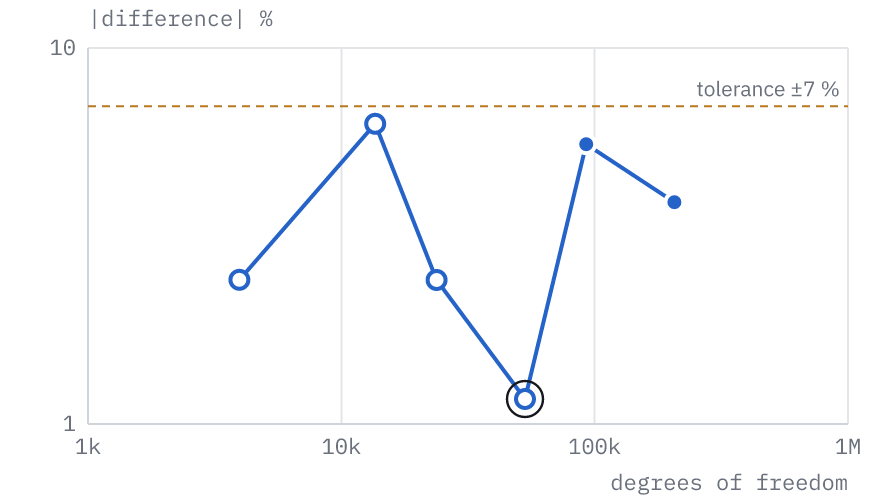
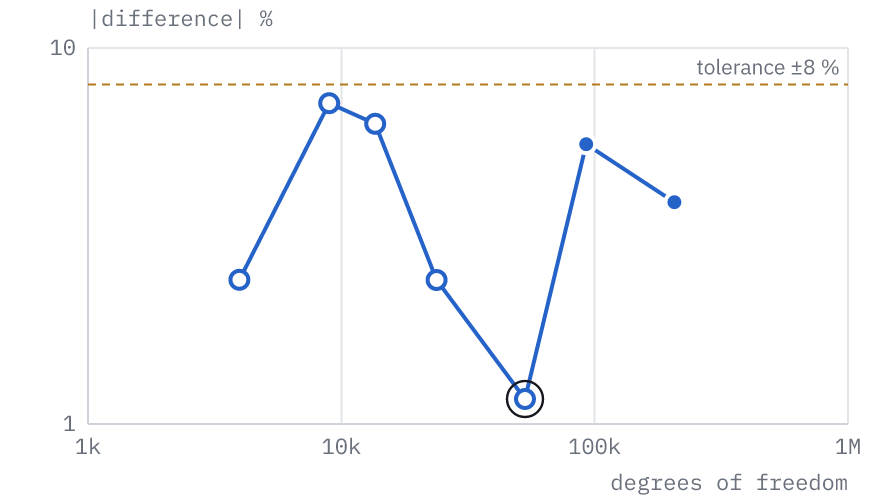
Regenerate the shell plate's page and study for the 8 % band (KOF-322)
Output of validate:report and theory:generate after the shell plate's text
fixes, its 8 % band and the 2.5 mm study level.

Claude-Session: https://claude.ai/code/session_01G8ZFvy16eBrUYZrKzdcaHw

Changed region(s): [[0.092, 0.12, 0.9511, 0.36], [0.2761, 0.33, 0.3682, 0.54], [0.3989, 0.27, 0.4295, 0.3]]

diff --git a/web/examples/plate-with-hole-shell/index.html b/web/examples/plate-with-hole-shell/index.html
@@ -886,7 +886,7 @@
             <tr>
               <td class="num">3.1400</td>
               <td class="num"><strong data-testid="fe-value">3.1766</strong></td>
-              <td class="num">+1.17&nbsp;%<br /><span class="band pass">within ±7&nbsp;%</span></td>
+              <td class="num">+1.17&nbsp;%<br /><span class="band pass">within ±8&nbsp;%</span></td>
             </tr>
           </tbody>
         </table>
@@ -949,9 +949,9 @@
         wall by its mid-surface. The faces through the wall, the cut edges and
         the hole, become the edges of the shell, so each support and the load
         is picked as an Edge. Netgen puts at least two elements along every
-        edge, so the thin wall makes the triangles at the hole smaller than a
-        millimetre on every mesh, while the plate away from the hole stays
-        coarse.</p>
+        edge, so next to the 1&nbsp;mm cut edge the triangle at A
+        stays about 0.6&nbsp;mm on every mesh: a smaller maximum element size
+        refines the rest of the hole but not the peak.</p>
         <p>Each of the 17,283 triangles
         combines a CST membrane, with one constant strain and stress per
         triangle, and a DKT plate-bending element; in this load case only the
@@ -966,7 +966,7 @@
           <tr><th scope="row">Quantity</th><td>stress-concentration factor Kt</td></tr>
           <tr><th scope="row">Reference</th><td>Howland's Kt for 2a/W = 0.2 = 3.1400 <span class="meta">(Kirsch (1898); Howland (1930); Peterson's)</span></td></tr>
           <tr><th scope="row">KoFEM</th><td>3.1766</td></tr>
-          <tr><th scope="row">Difference</th><td>+1.17&nbsp;% <span class="band pass">within ±7&nbsp;%</span></td></tr>
+          <tr><th scope="row">Difference</th><td>+1.17&nbsp;% <span class="band pass">within ±8&nbsp;%</span></td></tr>
         </table>
       </div>
       <section class="study" id="convergence" data-study="plate-with-hole-shell">
@@ -976,7 +976,7 @@
           <picture class="figure-image theme-light conv"><source srcset="/examples/plate-with-hole-shell/plate-with-hole-shell-mesh-convergence.svg" type="image/svg+xml" /><img src="/examples/plate-with-hole-shell/plate-with-hole-shell-mesh-convergence.png" width="440" height="250" alt="Plate with a hole, shell triangles: difference from the reference against degrees of freedom, logarithmic axes" loading="lazy" decoding="async" /></picture><picture class="figure-image theme-dark conv"><source srcset="/examples/plate-with-hole-shell/plate-with-hole-shell-mesh-convergence-dark.svg" type="image/svg+xml" /><img src="/examples/plate-with-hole-shell/plate-with-hole-shell-mesh-convergence.png" width="440" height="250" alt="Plate with a hole, shell triangles: difference from the reference against degrees of freedom, logarithmic axes" loading="lazy" decoding="async" /></picture>
           <figcaption>Difference from the reference on refined meshes, logarithmic axes. The ringed point is this example's mesh.</figcaption>
         </figure>
-        <p>Kt scatters a few percent either side of Howland's 3.14 instead of converging: the 1 mm wall gives sub-millimetre triangles at the hole on every mesh, and the read-out is the constant stress of the one or two triangles that meet at the peak. From 0.75 mm two meet there and the average reads low.</p>
+        <p>Kt scatters a few percent either side of Howland's 3.14 instead of converging: next to the 1 mm cut edge the triangle at the peak stays about 0.6 mm on every mesh, and the read-out is the constant stress of the one or two triangles that meet there. On the finest meshes the peak node is shared by more triangles and reads low.</p>
         <details>
           <summary>Data</summary>
           <div class="table-wrap">
@@ -997,6 +997,13 @@
                   <td class="num">3,960</td>
                   <td class="num">3.2159</td>
                   <td class="num">+2.42&nbsp;%</td>
+                </tr>
+                <tr>
+                  <td>Shell (linear)</td>
+                  <td>2.5 mm</td>
+                  <td class="num">8,958</td>
+                  <td class="num">3.3638</td>
+                  <td class="num">+7.13&nbsp;%</td>
                 </tr>
                 <tr>
                   <td>Shell (linear)</td>
@@ -1050,10 +1057,11 @@
         the solid model reads the peak slightly low on every mesh. A linear
         triangle has one stress. At A only one or two triangles meet, so the
         nodal value is their stress, and it lands above or below 3.14
-        depending on how the mesher cuts that corner. Over the mesh study
-        above it ranges from 5.6&nbsp;% below to 6.3&nbsp;% above,
+        depending on how the mesher cuts that corner; on the finest meshes the
+        peak moves to the next node along the hole. Over the mesh study above
+        it ranges from 5.6&nbsp;% below to 7.1&nbsp;% above,
         without settling, which is why the band is
-        ±7&nbsp;%.</p>
+        ±8&nbsp;%.</p>
         <p>For a peak stress in a flat part loaded in its plane, use solid
         quadratic elements, or check that the shell peak stops changing on
         finer meshes. Shells pay off when a thin wall bends: one layer of
@@ -1069,9 +1077,9 @@
         <li>Set the body to Shell. Meshing measures the 1 mm wall and replaces it by its mid-surface; the faces through the wall become the shell's edges, which you pick as Edges.</li>
         <li>Mesh with a 1 mm maximum element size, linear elements.</li>
         <li>Material Steel: E = 210000 MPa, ν = 0.3.</li>
-        <li>Support “Symmetry x = 0”: Ux, Uz, Ry, Rz = 0 on the face through (0, 30, 0.5).</li>
-        <li>Support “Symmetry y = 0”: Uy, Uz, Rx, Rz = 0 on the face through (80, 0, 0.5).</li>
-        <li>Load “Tension”: force (5000, 0, 0) N on the face through (150, 25, 0.5).</li>
+        <li>Support “Symmetry x = 0”: Ux, Uz, Ry, Rz = 0 on the edge through (0, 30, 0.5).</li>
+        <li>Support “Symmetry y = 0”: Uy, Uz, Rx, Rz = 0 on the edge through (80, 0, 0.5).</li>
+        <li>Load “Tension”: force (5000, 0, 0) N on the edge through (150, 25, 0.5).</li>
         <li>Run the static study. The Results panel compares stress-concentration factor with Howland's Kt for 2a/W = 0.2.</li>
       </ol>
       <p>From a clone (Bun, bash, curl and Rust), this builds and solves the model with the same engine and prints its line:</p>
@@ -1079,7 +1087,7 @@
 bash scripts/fetch-wasm-engine.sh
 cd web &amp;&amp; bun install &amp;&amp; bun run validate --case plate-with-hole-shell</code></pre>
       <pre class="console"><code>Case                                  Quantity                                  FE   Reference     Err%  Tol%  Status
-Plate with a hole (shells)            stress-concentration factor Kt        3.1766      3.1400    +1.17     7  PASS</code></pre>
+Plate with a hole (shells)            stress-concentration factor Kt        3.1766      3.1400    +1.17     8  PASS</code></pre>
 
       <h2 id="references">References</h2>
       <ol class="refs">

diff --git a/examples/validation/REPORT.md b/examples/validation/REPORT.md
@@ -18,6 +18,6 @@ cd web && bun run validate:report
 | Cantilever beam under tip load | tip deflection δ | -1.9040 mm | −P·L³ / (3·E·I) | -0.04% | 1% | ✅ |
 | Square beam under torsion | angle of twist θ | 8.8561e-4 rad | θ = T·L / (G·K) | +0.74% | 5% | ✅ |
 | Plate with a hole | stress-concentration factor Kt | 3.1268 | Howland's Kt for 2a/W = 0.2 | -0.42% | 3% | ✅ |
-| Plate with a hole (shells) | stress-concentration factor Kt | 3.1766 | Howland's Kt for 2a/W = 0.2 | +1.17% | 7% | ✅ |
+| Plate with a hole (shells) | stress-concentration factor Kt | 3.1766 | Howland's Kt for 2a/W = 0.2 | +1.17% | 8% | ✅ |
 | Hollow shaft under torsion | angle of twist θ | 1.4774e-3 rad | θ = T·L / (G·J) | +1.97% | 5% | ✅ |
 | Cook's membrane | loaded-edge deflection | 23.936 mm | converged plane-stress value | -0.10% | 1% | ✅ |
